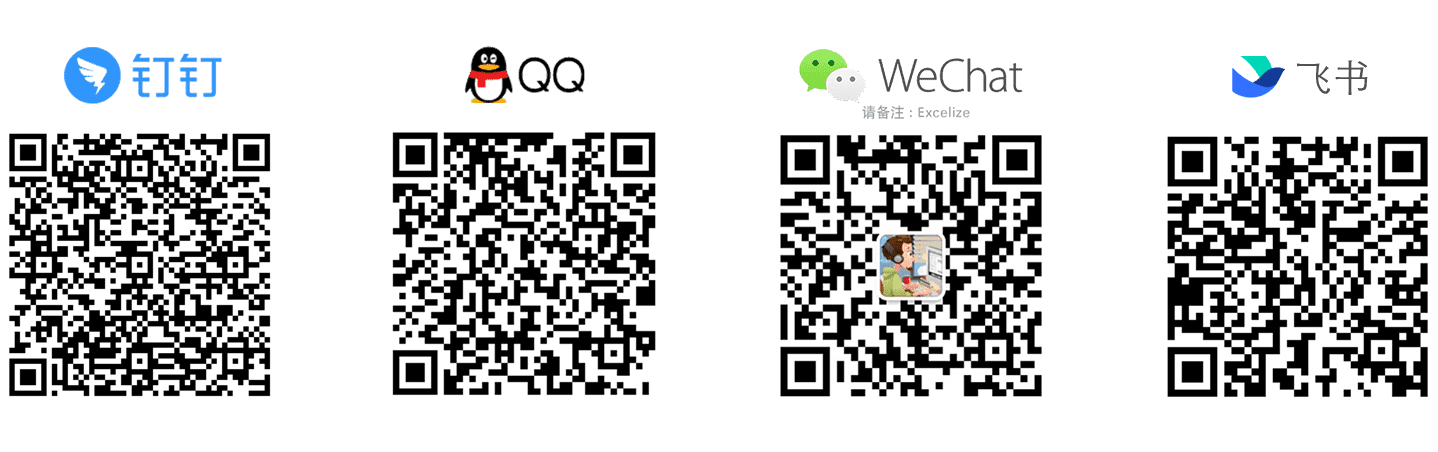
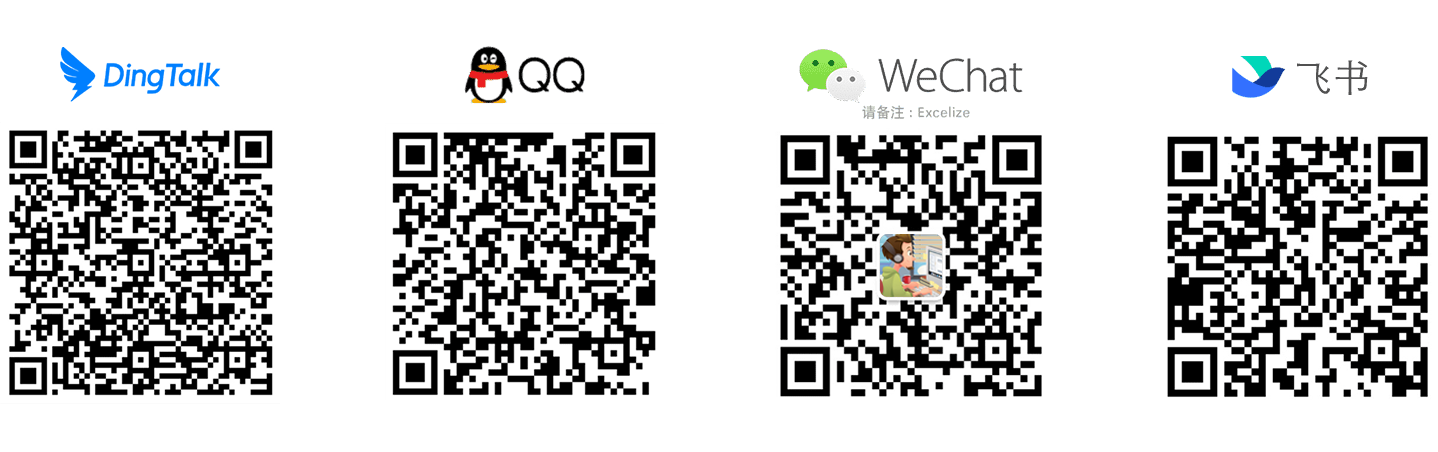
Update ru version release note for the next version 2.7.0
- Update DingTalk group QR code

Changed region(s): [[0.0, 0.2788, 0.2142, 0.8982], [0.0306, 0.0929, 0.153, 0.2478], [0.612, 0.4956, 0.6732, 0.6504]]

diff --git a/ru/releases/v2.7.0.md b/ru/releases/v2.7.0.md
@@ -22,12 +22,16 @@
 * Введите новую функцию вместо существующих функций:
   * Используйте `SetSheetProps` вместо `SetSheetPrOptions` и `SetSheetFormatPr`
   * Используйте `GetSheetProps` вместо `GetSheetPrOptions` и `GetSheetFormatPr`
+* Добавьте `CellTypeFormula`, `CellTypeInlineString`, `CellTypeSharedString` и удалите `CellTypeString` в перечислении `CellType`
+* Параметр был изменен для функции `AddComments`, поддержка создания форматированного текста в комментариях, связанная проблема [#1204](https://github.com/xuri/excelize/issues/1204)
 
 ### Примечательные особенности
 
 * Добавление новых функций `GetDataValidations` и `GetConditionalFormats` для получения проверок данных и условных форматов, связанная проблема [#827](https://github.com/xuri/excelize/issues/827)
 * Добавление новой функции `SetSheetCol` для набора ячеек столбцов листа, связанная проблема [#1247](https://github.com/xuri/excelize/issues/1247)
 * Добавление новой функции `GetColStyle` для набора стилей столбцов, связанная проблема [#1293](https://github.com/xuri/excelize/issues/1293)
+* Добавьте новую экспортную переменную `IndexedColorMapping`
+* Новые функции поддержки 2 формул: AGGREGATE и SUBTOTAL
 * Функции `Save`, `Write` и `WriteTo` теперь принимают параметры сохранения, связанная проблема [#744](https://github.com/xuri/excelize/issues/744)
 * Поддержка функции `AddChart` указывает, является ли гладкая линия линейного графика, связанная проблема [#1290](https://github.com/xuri/excelize/issues/1290)
 * Функция `AddChart` поддерживает установку пользовательского цвета линий на графиках, связанная проблема [#1345](https://github.com/xuri/excelize/issues/1345)
@@ -35,6 +39,7 @@
 * Функция `AddChart` поддерживает создание 3D линейной диаграммы
 * Функции `SetColWidth`, `GetColWidth`, `SetColVisible`, `GetColVisible`, `SetColStyle` и `GetColStyle` теперь поддерживают безопасность параллелизма
 * Ошибка будет возвращена при задании несуществующего идентификатора стиля, связанная проблема [#1323](https://github.com/xuri/excelize/issues/1323)
+* Ошибка будет возвращена при установке строки потока без возрастающих номеров строк, чтобы избежать возможных ошибок, связанная проблема [#1139](https://github.com/xuri/excelize/issues/1139)
 * Модуль записи потока будет применять стиль в `RowOpts` для каждой ячейки, связанная проблема [#1354](https://github.com/xuri/excelize/issues/1354)
 * Поддержка модуля записи потоков для установки панелей, связанная проблема [#1047](https://github.com/xuri/excelize/issues/1047)
 * Поддержка модуля записи потоков для установки встроенной ячейки форматированного текста
@@ -42,17 +47,32 @@
 * Введение 5 новых типов данных экспорта: `HeaderFooterOptions`, `PageLayoutMarginsOptions`, `PageLayoutOptions`, `SheetPropsOptions` и `ViewOptions`
 * Поддержка настройки сводных столбцов, чтобы они отображались справа от деталей в структуре
 * Поддержка установки и получения цвета шрифта с темой и оттенком, связанная проблема [#1369](https://github.com/xuri/excelize/issues/1369)
+* Поддержка получения значения ячейки, которое содержит дату в формате ISO 8601
+* Установите поддержку и получите цвет шрифта с индексированным цветом
+* Функция `Close` рабочей книги теперь поддерживает очистку временных файлов потоковой записи
+* Функция `AddPicture` теперь позволяет вставлять изображения в формате SVG
+
+### Улучшение совместимости
+
+* Модуль записи потока записывает встроенный строковый тип для строкового значения ячейки, связанная проблема [#1377](https://github.com/xuri/excelize/issues/1377)
+* Пропускать пустые строки при сохранении электронной таблицы, чтобы уменьшить размер файла, связанная проблема [#1383](https://github.com/xuri/excelize/issues/1383)
 
 ### Исправление ошибок
 
-* Исправлена проблема с круглым форматом десятичных чисел со встроенным числовым форматом, решенная проблема [#1328](https://github.com/xuri/excelize/issues/1328) и [#1368](https://github.com/xuri/excelize/issues/1368)
+* Исправлена проблема с круглым форматом десятичных чисел со встроенным числовым форматом, решенная проблема [#1328](https://github.com/xuri/excelize/issues/1328), [#1368](https://github.com/xuri/excelize/issues/1368) и [#1373](https://github.com/xuri/excelize/issues/1373)
 * Исправлена проблема с применением номерного формата AM/PM в некоторых случаях, решенная проблема [#1338](https://github.com/xuri/excelize/issues/1338)
 * Исправьте панику при удалении комментариев, помещенных границами фрагмента вне диапазона, решенная проблема [#1343](https://github.com/xuri/excelize/issues/1343)
+* Исправлена паника при получении значения ячейки в некоторых случаях, решенная проблема [#1384](https://github.com/xuri/excelize/issues/1384)
 * Исправлена проблема синтаксического анализа номерного формата по умолчанию с длинной строкой цифр, решенная проблема [#1360](https://github.com/xuri/excelize/issues/1360)
 * Исправлено создание листа с пустым именем, вызывающего повреждение файла, решенная проблема [#1361](https://github.com/xuri/excelize/issues/1361)
 * Исправлено получение содержимого изображения было пустым после вставки изображения
 * Исправьте повреждение книги после вставки cols/rows в некоторых случаях
+* Удалить общую формулу в цепочке вычислений при записи ячейки формулы, чтобы в некоторых случаях исправить повреждение рабочей книги
 * Нормализуйте имя листа, чтобы исправить регрессию поведения между 2.6.0 и 2.6.1, решенная проблема [#1365](https://github.com/xuri/excelize/issues/1365)
+* Исправлена проблема с результатом вычисления формулы функции `OR`
+* Исправить ошибку при вставке столбцов или строк на лист, который содержит одну объединенную ячейку диапазона ячеек
+* Исправлена ошибка при получении диапазона объединенных ячеек на листе, который содержит один объединенный диапазон ячеек
+* Исправлено получение неполного значения ячейки форматированного текста в некоторых случаях
 
 ### Оптимизация производительности
 
@@ -82,3 +102,7 @@
 * @carbin-gun (charles.deng)
 * @harrison3000 (Harrison)
 * @strivek (GaoFei)
+* @gonghaibinx
+* @martinmr (Martin Martinez Rivera)
+* @zclark (Zach Clark)
+* @March0715 (March)
